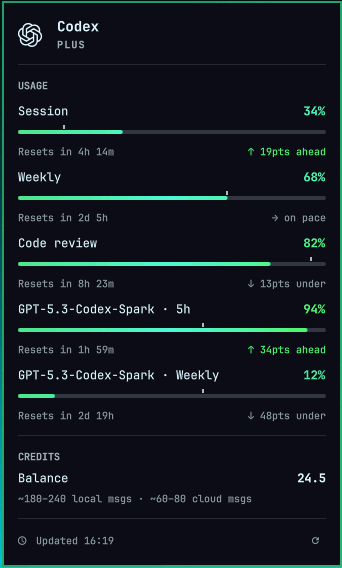
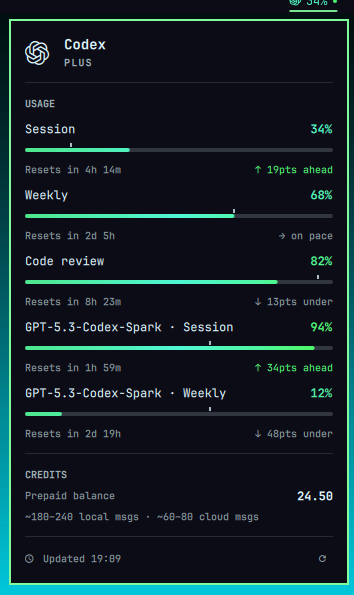
tooltip: the frame goes, and the one that stays pins its font
The tooltip was drawn two ways for the same content. --frame's box was
the second: more code, more documentation, more screenshots — and it only
lined up when the pinned font was a complete Mono Nerd Font. The Arch
package ttf-jetbrains-mono-nerd does NOT ship that family, so the default
fell back to the system's proportional font without saying so and the box
came out ragged.

One shape stays, and it pins the font. The pin is not decoration: the
rules are made of ─, which in a proportional font is nearly twice as wide
as a letter, so the tooltip sized itself to the rules and grew a dead
margin to the right of the text — 530px of box for 370px of content.
Waybar draws the tooltip in a GTK window that IGNORES font-family from
CSS (tested: five selector variants and gtk-font-name, none of them
work), so the markup is the only place this can be said.

The default font is a LIST of families, not one name: Pango tries them in
order and falls through to the next when one is not installed. That way a
family name that does not exist stops being a silent trap.

--frame and --frame-font are still accepted so an existing config keeps
working: --frame does nothing, --frame-font is an alias for the new
--tooltip-font. Both are marked deprecated in the header, with the why.

Changed region(s): [[0.0, 0.0, 1.0, 1.0], [0.4386, 0.838, 0.731, 0.8979]]

diff --git a/README.md b/README.md
@@ -3,13 +3,13 @@
 [![AUR version](https://img.shields.io/aur/version/codexbar)](https://aur.archlinux.org/packages/codexbar)
 [![License: MIT](https://img.shields.io/badge/license-MIT-green.svg)](LICENSE)
 
-codexbar shows your use of the OpenAI Codex subscription in your status bar. It reads every limit that the Codex API reports. These limits are the session (5h) window, the weekly window, code review, the per-model meters, and the credits balance. It also gives you a warning before a limit stops your work.
+codexbar shows your use of the OpenAI Codex subscription in [Waybar](https://github.com/Alexays/Waybar) and in the [Omarchy](https://omarchy.org) shell. It reads every limit that the Codex API reports. These limits are the session (5h) window, the weekly window, code review, the per-model meters, and the credits balance. It also gives you a warning before a limit stops your work.
 
-codexbar runs in two places: as a Waybar module, and as a native plugin for the [Omarchy](https://github.com/basecamp/omarchy) shell. One script supplies both.
+The same core drives both frontends, so a number reads the same on either one:
 
-<p align="center">
-  <img src="screenshots/omarchy-panel.png" alt="The Omarchy panel: one meter for each usage window" width="342">
-</p>
+| The Omarchy shell plugin | The Waybar module |
+| :---: | :---: |
+| <img src="screenshots/omarchy-desktop.png" alt="codexbar in the Omarchy shell: the bar face and the usage panel"> | <img src="screenshots/waybar-desktop.png" alt="codexbar in Waybar: the bar face and the tooltip"> |
 
 ## Contents
 
@@ -109,7 +109,7 @@ The bar shows your session use and the time until the reset. Put the pointer on 
 | `--format FORMAT` | Sets the bar text. Default: `{session_pct}% · {session_reset}` |
 | `--tooltip-format FORMAT` | Replaces the tooltip with your own text |
 | `--remaining` | Counts what is left, not what is used |
-| `--pace-tolerance N` | Sets the difference from the pace that is still "on track". Default: `5` |
+| `--pace-tolerance N` | Sets the difference from the pace that is still "on pace". Default: `5` |
 | `--format-pace-color` | Gives the pace indicator its own color in the bar |
 | `--tooltip-pace-pts` | Uses point-based pace in the tooltip, and adds a pace mark to each bar |
 | `--frame` | Draws a box around the tooltip |
@@ -157,11 +157,11 @@ codexbar --remaining                                   # 58% · 1h 30m
 The plugin gives you a real user interface instead of a text tooltip. The bar shows the Codex icon and one percentage. A click opens a panel with one meter for each window. Each meter has an animated bar with a mark for the pace, the percentage, the time until the reset, and the credits.
 
 <p align="center">
-  <img src="screenshots/omarchy-desktop.png" alt="codexbar in the Omarchy bar, with its panel open" width="960">
+  <img src="screenshots/omarchy-bar.png" alt="The widget in the Omarchy bar" width="68">
 </p>
 
 <p align="center">
-  <img src="screenshots/omarchy-bar.png" alt="The widget in the Omarchy bar" width="68">
+  <img src="screenshots/omarchy-panel.png" alt="The codexbar panel: one meter for each usage window" width="342">
 </p>
 
 Install the plugin. Then add the plugin to your bar:
@@ -180,6 +180,13 @@ Then put the widget in your bar, in `~/.config/omarchy/shell.json`:
 ```
 
 Mouse actions: **left click** opens the panel, **middle click** gets new data, and **right click** opens the Codex usage page. The footer of the panel ends with a refresh control (), next to the time of the last update. The control stays disabled while a fetch runs.
+
+The plugin also answers the shell's IPC, so a keybind or a script can drive it without the mouse:
+
+```bash
+qs ipc call mryll.codexbar toggle    # open or close the panel
+qs ipc call mryll.codexbar refresh   # fetch now, without opening anything
+```
 
 ### Settings
 
@@ -343,9 +350,10 @@ More than one instance at the same time is safe. The instances use a lock file a
 
 ## Related
 
-- [claudebar](https://github.com/mryll/claudebar) — Claude usage
+- [claudebar](https://github.com/mryll/claudebar) — Claude AI plan usage
 - [logibar](https://github.com/mryll/logibar) — the battery of Logitech devices
 - [meteobar](https://github.com/mryll/meteobar) — the weather, from Open-Meteo
-- [tickerbar](https://github.com/mryll/tickerbar) — prices of crypto, stocks, and forex
-- [Omarchy](https://github.com/basecamp/omarchy) — the Linux setup for this widget
+- [printbar](https://github.com/mryll/printbar) — any printer: supplies, trays and queue
+- [tickerbar](https://github.com/mryll/tickerbar) — prices of crypto, stocks, indices, commodities and forex
+- [Omarchy](https://github.com/basecamp/omarchy) — the Linux setup for these widgets
 - [Waybar](https://github.com/Alexays/Waybar) — the status bar for Wayland
